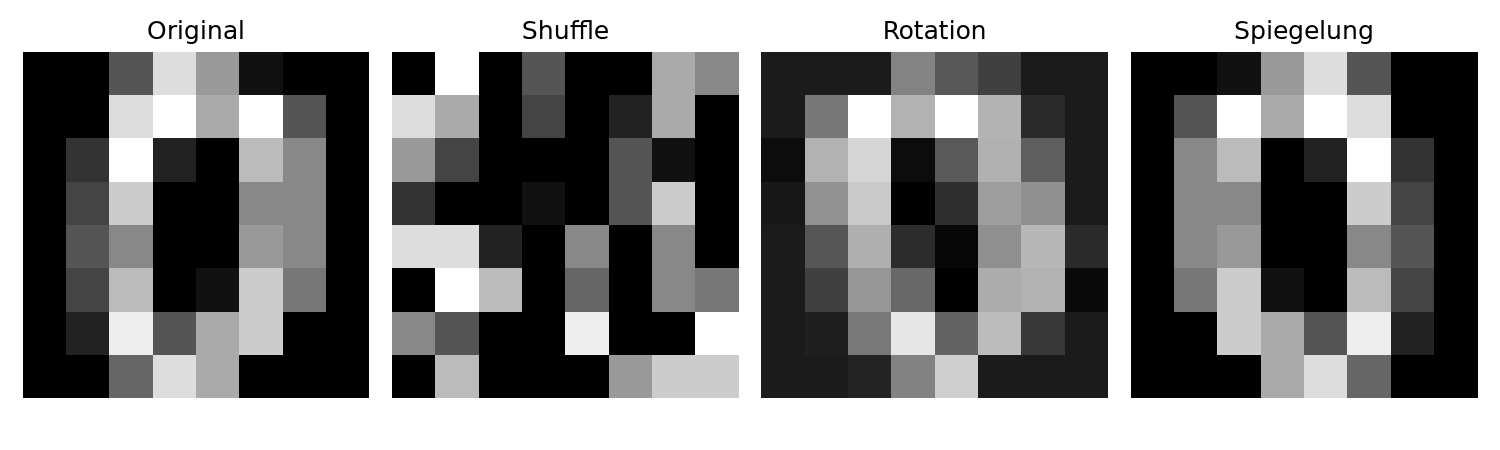
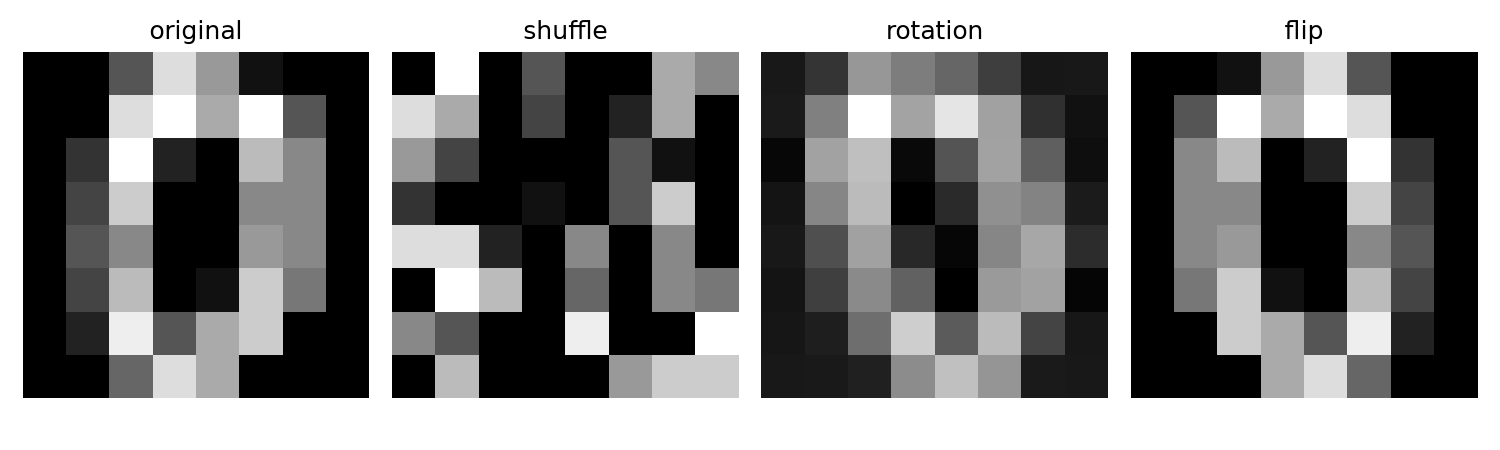
final

diff --git a/exercises/09_autoencoders/exercise_9_2_latent_space.py b/exercises/09_autoencoders/exercise_9_2_latent_space.py
@@ -1,40 +1,109 @@
-"""Exercise 9.2: Latenten Raum untersuchen und Ziffern generieren.
-
-Aufgabenstellung:
-1. Mache Encoder und Decoder getrennt zugreifbar und visualisiere die Cluster.
-2. Erzeuge Ziffern durch selbst gewählte Punkte im latenten Raum.
+"""Exercise 9.2: Explore the latent space and generate numbers.
 
 Aufruf: pdm run python exercises/09_autoencoders/exercise_9_2_latent_space.py
 """
 
 import os
 from pathlib import Path
-os.environ["MPLBACKEND"] = "Agg"; os.environ["MPLCONFIGDIR"] = str(Path("results/.matplotlib").resolve())
+
+os.environ["MPLBACKEND"] = "Agg"
+os.environ["MPLCONFIGDIR"] = str(Path("results/.matplotlib").resolve())
 
 import matplotlib.pyplot as plt
-import numpy as np
 import torch
 from sklearn.datasets import load_digits
 
-RESULTS = Path("results/exercise_9_2"); SEED = 6020
+RESULTS = Path("results/exercise_9_2")
+SEED = 6020
 
 
 class Autoencoder(torch.nn.Module):
     def __init__(self):
-        super().__init__(); self.encoder = torch.nn.Sequential(torch.nn.Linear(64, 32), torch.nn.ReLU(), torch.nn.Linear(32, 2)); self.decoder = torch.nn.Sequential(torch.nn.Linear(2, 32), torch.nn.ReLU(), torch.nn.Linear(32, 64), torch.nn.Sigmoid())
-    def forward(self, data): return self.decoder(self.encoder(data))
+        super().__init__()
+        self.encoder = torch.nn.Sequential(
+            torch.nn.Linear(64, 32),
+            torch.nn.ReLU(),
+            torch.nn.Linear(32, 2),
+        )
+        self.decoder = torch.nn.Sequential(
+            torch.nn.Linear(2, 32),
+            torch.nn.ReLU(),
+            torch.nn.Linear(32, 64),
+            torch.nn.Sigmoid(),
+        )
+
+    def forward(self, data):
+        return self.decoder(self.encoder(data))
+
+
+def train(model, values, epochs=250):
+    optimizer = torch.optim.Adam(model.parameters(), lr=0.01)
+
+    for _ in range(epochs):
+        optimizer.zero_grad()
+        loss = torch.nn.functional.mse_loss(model(values), values)
+        loss.backward()
+        optimizer.step()
+
+    return loss.item()
+
+
+def save_latent_space(latent, targets):
+    plt.figure(figsize=(6, 5))
+    plt.scatter(latent[:, 0], latent[:, 1], c=targets, cmap="tab10", s=8)
+    plt.colorbar(label="digit")
+    plt.tight_layout()
+    plt.savefig(RESULTS / "latent_space.png", dpi=150)
+    plt.close()
+
+
+def save_generated_digits(model):
+    points = torch.tensor(
+        [
+            [-2.0, -2.0],
+            [-2.0, 0.0],
+            [-2.0, 2.0],
+            [0.0, -2.0],
+            [0.0, 0.0],
+            [0.0, 2.0],
+            [2.0, -2.0],
+            [2.0, 0.0],
+            [2.0, 2.0],
+        ]
+    )
+
+    with torch.no_grad():
+        generated = model.decoder(points).numpy()
+
+    fig, axes = plt.subplots(3, 3, figsize=(5, 5))
+    for axis, image in zip(axes.ravel(), generated):
+        axis.imshow(image.reshape(8, 8), cmap="gray")
+        axis.axis("off")
+
+    fig.tight_layout()
+    fig.savefig(RESULTS / "generated_digits.png", dpi=150)
+    plt.close(fig)
 
 
 def main():
-    RESULTS.mkdir(parents=True, exist_ok=True); torch.manual_seed(SEED); digits = load_digits(); values = torch.tensor(digits.data / 16, dtype=torch.float32)
-    model = Autoencoder(); optimizer = torch.optim.Adam(model.parameters(), lr=.01)
-    for _ in range(200): optimizer.zero_grad(); loss = torch.nn.functional.mse_loss(model(values), values); loss.backward(); optimizer.step()
-    with torch.no_grad(): latent = model.encoder(values).numpy(); generated = model.decoder(torch.tensor([[-2., -2.], [-2., 2.], [2., -2.], [2., 2.]])).numpy()
-    plt.figure(figsize=(6, 5)); plt.scatter(latent[:, 0], latent[:, 1], c=digits.target, cmap="tab10", s=8); plt.colorbar(label="Ziffer"); plt.tight_layout(); plt.savefig(RESULTS / "latent_space.png", dpi=150); plt.close()
-    fig, axes = plt.subplots(1, 4, figsize=(8, 2));
-    for axis, image in zip(axes, generated): axis.imshow(image.reshape(8, 8), cmap="gray"); axis.axis("off")
-    fig.tight_layout(); fig.savefig(RESULTS / "generated_digits.png", dpi=150); plt.close(fig)
-    print(f"Rekonstruktionsverlust: {loss.item():.4f}")
+    RESULTS.mkdir(parents=True, exist_ok=True)
+    torch.manual_seed(SEED)
+
+    digits = load_digits()
+    values = torch.tensor(digits.data / 16, dtype=torch.float32)
+
+    model = Autoencoder()
+    loss = train(model, values)
+
+    with torch.no_grad():
+        latent = model.encoder(values).numpy()
+
+    save_latent_space(latent, digits.target)
+    save_generated_digits(model)
+
+    print(f"Reconstruction loss: {loss:.4f}")
+    print("Plots: latent_space.png, generated_digits.png")
 
 
-if __name__ == "__main__": main()
+if __name__ == "__main__":
+    main()

diff --git a/exercises/09_autoencoders/exercise_9_1_transformations.py b/exercises/09_autoencoders/exercise_9_1_transformations.py
@@ -1,17 +1,13 @@
-"""Exercise 9.1: Zusätzliche Transformationen für den Autoencoder.
-
-Aufgabenstellung:
-1. Shuffle Pixel mit einer festen Permutation.
-2. Rotiere, erweitere und beschneide Bilder wieder.
-3. Spiegele Bilder.
-4. Trainiere den Autoencoder mit diesen Datensätzen und bewerte das Ergebnis.
+"""Exercise 9.1: Add more transformations.
 
 Aufruf: pdm run python exercises/09_autoencoders/exercise_9_1_transformations.py
 """
 
 import os
 from pathlib import Path
-os.environ["MPLBACKEND"] = "Agg"; os.environ["MPLCONFIGDIR"] = str(Path("results/.matplotlib").resolve())
+
+os.environ["MPLBACKEND"] = "Agg"
+os.environ["MPLCONFIGDIR"] = str(Path("results/.matplotlib").resolve())
 
 import matplotlib.pyplot as plt
 import numpy as np
@@ -19,33 +15,93 @@ import torch
 from scipy.ndimage import rotate
 from sklearn.datasets import load_digits
 
-RESULTS = Path("results/exercise_9_1"); SEED = 6020
+RESULTS = Path("results/exercise_9_1")
+SEED = 6020
 
 
 class Autoencoder(torch.nn.Module):
     def __init__(self):
-        super().__init__(); self.encoder = torch.nn.Sequential(torch.nn.Linear(64, 16), torch.nn.ReLU(), torch.nn.Linear(16, 2)); self.decoder = torch.nn.Sequential(torch.nn.Linear(2, 16), torch.nn.ReLU(), torch.nn.Linear(16, 64), torch.nn.Sigmoid())
-    def forward(self, data): return self.decoder(self.encoder(data))
+        super().__init__()
+        self.encoder = torch.nn.Sequential(
+            torch.nn.Linear(64, 16),
+            torch.nn.ReLU(),
+            torch.nn.Linear(16, 2),
+        )
+        self.decoder = torch.nn.Sequential(
+            torch.nn.Linear(2, 16),
+            torch.nn.ReLU(),
+            torch.nn.Linear(16, 64),
+            torch.nn.Sigmoid(),
+        )
+
+    def forward(self, data):
+        return self.decoder(self.encoder(data))
+
+
+def rotate_with_padding(image, angle=20, padding=2):
+    padded = np.pad(image, padding, mode="constant")
+    rotated = rotate(padded, angle, reshape=False, mode="constant")
+    return rotated[padding:-padding, padding:-padding]
 
 
 def transform(images):
-    rng = np.random.default_rng(SEED); shuffled = images.reshape(-1, 64)[:, rng.permutation(64)].reshape(-1, 8, 8)
-    rotated = np.array([rotate(image, 20, reshape=False, mode="constant") for image in images])
-    return {"Original": images, "Shuffle": shuffled, "Rotation": rotated, "Spiegelung": images[:, :, ::-1]}
+    rng = np.random.default_rng(SEED)
+    permutation = rng.permutation(64)
+
+    shuffled = images.reshape(-1, 64)[:, permutation].reshape(-1, 8, 8)
+    rotated = np.array([rotate_with_padding(image) for image in images])
+    flipped = images[:, :, ::-1]
+
+    return {
+        "original": images,
+        "shuffle": shuffled,
+        "rotation": rotated,
+        "flip": flipped,
+    }
 
 
-def train(data):
-    torch.manual_seed(SEED); model = Autoencoder(); optimizer = torch.optim.Adam(model.parameters(), lr=.01); values = torch.tensor(data.reshape(-1, 64), dtype=torch.float32)
-    for _ in range(100): optimizer.zero_grad(); loss = torch.nn.functional.mse_loss(model(values), values); loss.backward(); optimizer.step()
+def train(images, epochs=120):
+    torch.manual_seed(SEED)
+    model = Autoencoder()
+    optimizer = torch.optim.Adam(model.parameters(), lr=0.01)
+    values = torch.tensor(images.reshape(-1, 64), dtype=torch.float32)
+
+    for _ in range(epochs):
+        optimizer.zero_grad()
+        loss = torch.nn.functional.mse_loss(model(values), values)
+        loss.backward()
+        optimizer.step()
+
     return loss.item()
 
 
+def save_examples(transformed):
+    fig, axes = plt.subplots(1, len(transformed), figsize=(10, 3))
+
+    for axis, (name, images) in zip(axes, transformed.items()):
+        axis.imshow(images[0], cmap="gray")
+        axis.set_title(name)
+        axis.axis("off")
+
+    fig.tight_layout()
+    fig.savefig(RESULTS / "transformations.png", dpi=150)
+    plt.close(fig)
+
+
 def main():
-    RESULTS.mkdir(parents=True, exist_ok=True); images = load_digits().images / 16
-    transformed = transform(images); print({name: round(train(data), 4) for name, data in transformed.items()})
-    fig, axes = plt.subplots(1, 4, figsize=(10, 3))
-    for axis, (name, data) in zip(axes, transformed.items()): axis.imshow(data[0], cmap="gray"); axis.set_title(name); axis.axis("off")
-    fig.tight_layout(); fig.savefig(RESULTS / "transformations.png", dpi=150); plt.close(fig)
+    RESULTS.mkdir(parents=True, exist_ok=True)
+    images = load_digits().images / 16
+    transformed = transform(images)
+
+    losses = {name: train(data) for name, data in transformed.items()}
+    all_images = np.vstack(list(transformed.values()))
+    losses["all"] = train(all_images)
+
+    for name, loss in losses.items():
+        print(f"{name}: reconstruction_loss={loss:.4f}")
+
+    save_examples(transformed)
 
 
-if __name__ == "__main__": main()
+if __name__ == "__main__":
+    main()